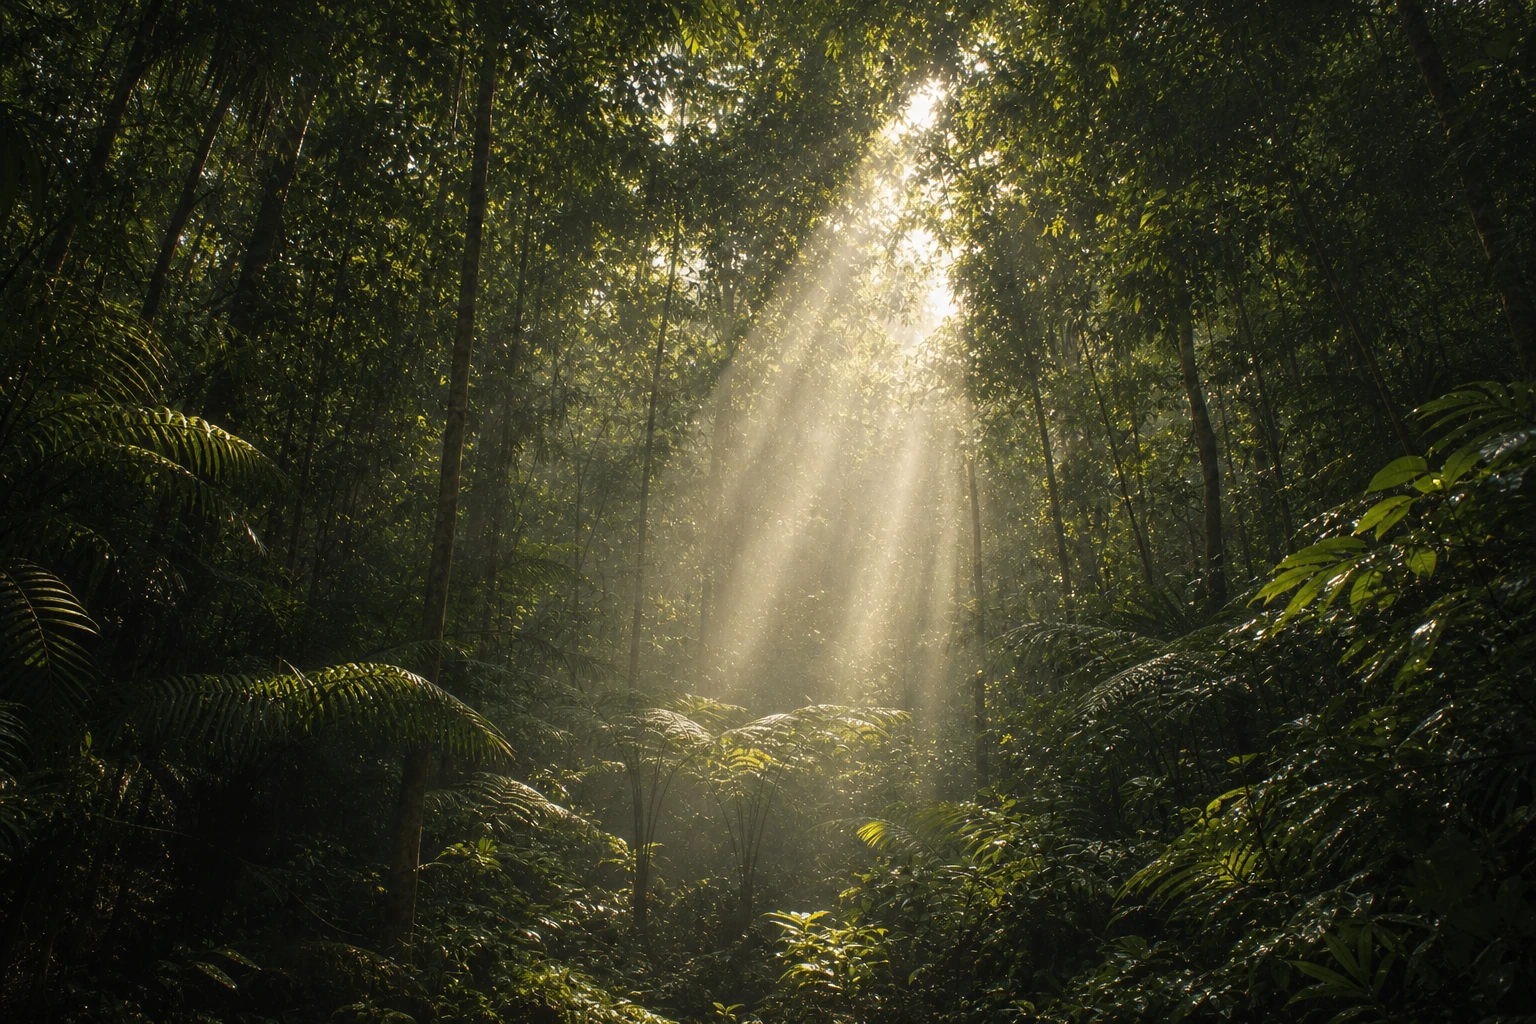
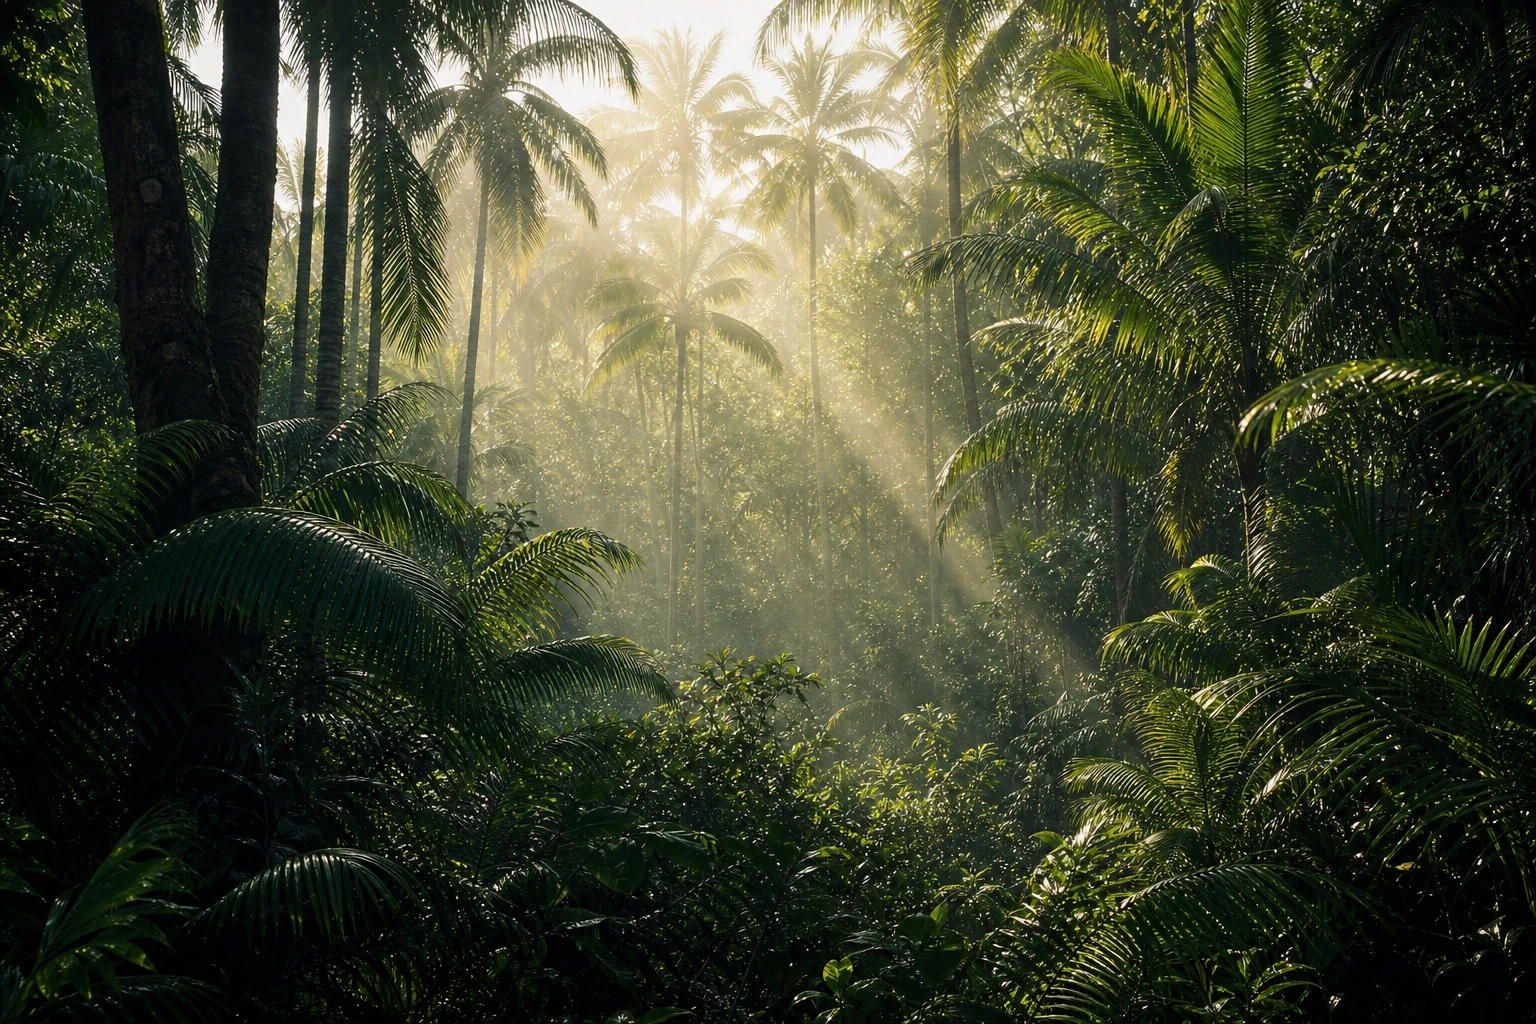
fix: the hero from the owner's reference, with both mattes done properly
THE FAR PLATE comes from a real photograph the owner supplied, used as --ref
for its composition: tall slender trunks receding, shafts through humid air,
an open misty middle distance with real space in it, and distinct palm fronds
framing the edges. The previous medium roll was his complaint exactly — "a
bamboo forest of just green blobs and mush" — because the prompt asked for
dense foliage and dense foliage is where the model's house pattern shows. The
brief here is the opposite: separate readable fronds with air between them,
depth carried by ATMOSPHERE rather than by blur, no uniform carpet of leaves.

NOTHING MULTIPLIES IN THIS HERO ANY MORE. Both foliage plates carry real alpha
mattes. Multiply made solid broad leaves see-through, which the owner rejected
on the undergrowth and then again on the side fronds.

THE WHITE OUTLINE was real and measured at 4.4x the leaf body's brightness. A
keyed edge pixel is a MIX of leaf and the white ground it was shot on, so
keying alpha alone leaves every edge carrying its share of white.

Two fixes were tried. Un-mixing alone got it to 4.09x — at 90%-white edge
pixels the division is too unstable to recover anything. Eroding the matte
killed it outright (0.78x) and was REVERTED anyway: a 5px min-filter ate the
fine leaflets and left the fronds visibly chewed, which is worse than the
fringe it fixed.

What shipped is edge colour extension: blur the leaf colour weighted by the
[…]

diff --git a/src/styles/stack.css b/src/styles/stack.css
@@ -267,13 +267,22 @@
    will-change: transform, which creates a stacking context, so a blend on the
    frame would composite only against its own plate and do nothing. Same
    pattern as the working precedent at workshop.css:24. */
-/* The near fronds still multiply — thousands of thin semi-transparent edges
-   are exactly what multiply handles best. The UNDERGROWTH does not: it is a
-   solid bank of broad leaves in the immediate foreground, and multiply made
-   the forest show straight through it, which the owner called out as looking
-   see-through and wrong. It carries a real alpha matte instead, keyed off its
-   white ground, so its leaves are opaque objects. */
-.hero .plate--near { mix-blend-mode: multiply; }
+/* NOTHING in this hero multiplies any more. Both foliage plates carry real
+   alpha mattes, because multiply made solid leaves look see-through — the
+   owner, twice: "don't make it see-through", then "the side leaves are
+   transparent and see-through, you can literally see through them".
+
+   The matte is keyed off the white ground and then COLOUR-DECONTAMINATED,
+   which is the part that is easy to miss. A keyed edge pixel is a mix of the
+   leaf and the white it was shot on, C = a*L + (1-a)*255, so keying alpha
+   alone leaves every edge carrying its share of white and the composite grows
+   a bright outline around every leaf — measured at 4.4x the leaf body's
+   brightness. Solving for L removes it, and anything under 40% alpha is
+   dropped outright because at that end the division is too unstable to trust.
+
+   Both plates are then graded to the scene's own understorey, so the nearest
+   foliage sits in shadow rather than glowing: opaque was much brighter than
+   multiply had been making them. */
 
 /* .frame paints var(--bg-deep) so a missing image reads as a dark labelled
    placeholder. Under multiply an opaque dark ground would crush the whole

diff --git a/tests/home-hero.test.ts b/tests/home-hero.test.ts
@@ -43,13 +43,17 @@ describe('Home hero', () => {
     frames.forEach((frame) => expect(frame).toContain('data-label='));
   });
 
-  it('keeps the front plate above the wordmark but composited, not opaque', () => {
-    // The front layer is meant to cross the name and show the forest through
-    // the gaps. It does that by multiply, not by an alpha channel: a cutout
-    // of fronds halos, and the previous one measured +24 RGB at the edges.
+  it('keeps the front plate above the wordmark, and its leaves opaque', () => {
+    // It used to multiply, on the theory that a frond cutout haloes. It does
+    // — the first attempt measured its edges at 4.4x the leaf body, a white
+    // outline around every leaf — but the cause is that a keyed edge pixel is
+    // a MIX of leaf and the white ground, and the fix is decontaminating and
+    // eroding the matte, not abandoning alpha. Multiply's own failure was
+    // worse and unfixable: solid broad leaves in the foreground showed the
+    // forest straight through them.
     const stack = readFileSync('src/styles/stack.css', 'utf8');
     expect(stack).toMatch(/\.hero \.plate--near \{[^}]*z-index:\s*4/);
     expect(stack).toMatch(/\.hero \.plate--near \{[^}]*--rate:\s*-350/);
-    expect(stack).toMatch(/mix-blend-mode: multiply/);
+    expect(stack).not.toMatch(/\.hero \.plate--near \{[^}]*mix-blend-mode/);
   });
 });

diff --git a/tests/stack-depth.test.ts b/tests/stack-depth.test.ts
@@ -144,8 +144,13 @@ describe('stack depth ordering', () => {
     }
   });
 
-  it('composites the hero front plates with multiply, on the plate not the frame', () => {
-    expect(css).toMatch(/mix-blend-mode: multiply/);
+  it('never puts a blend mode on a .frame — it belongs on the .plate', () => {
+    // The hero's own plates no longer multiply at all: both foliage layers
+    // carry real alpha mattes, because multiply made solid broad leaves look
+    // see-through and the owner rejected it twice. Other rooms still multiply,
+    // so the rule that matters is unchanged and still worth pinning: a blend
+    // on the .frame composites only inside its own plate's stacking context
+    // (the .plate sets will-change: transform) and silently does nothing.
     expect(css).not.toMatch(/\.plate--\w+ \.frame \{[^}]*mix-blend-mode/);
   });
 
